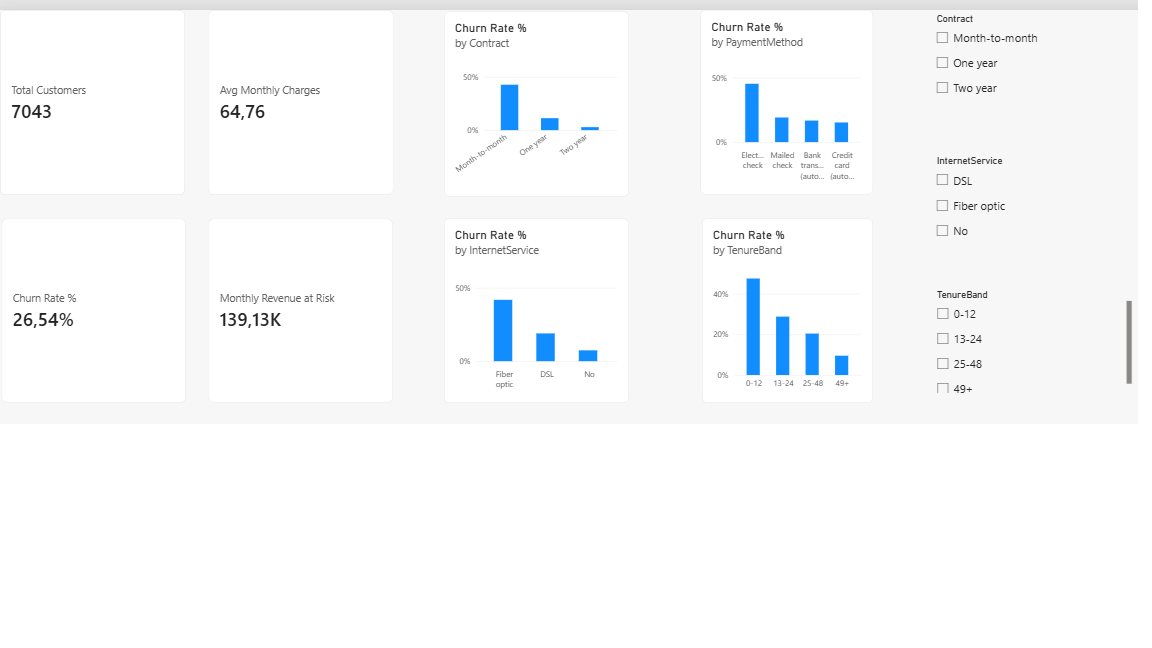
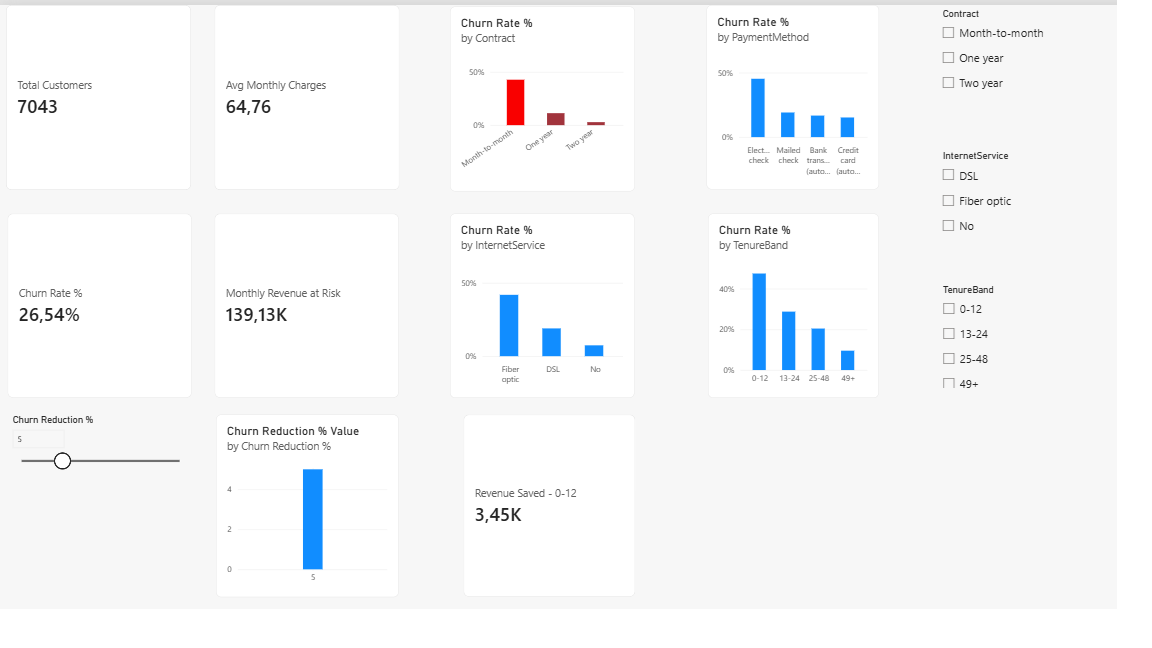
Update final dashboard deliverables

diff --git a/note.md b/note.md
@@ -15,11 +15,11 @@
 
 The following measures were created explicitly in DAX:
 
-- `Total Customers = COUNTROWS(Telco)`
-- `Churned Customers = CALCULATE([Total Customers], Telco[Churn] = "Yes")`
+- `Total Customers = COUNTROWS(...)`
+- `Churned Customers = CALCULATE([Total Customers], ...[Churn] = "Yes")`
 - `Churn Rate % = DIVIDE([Churned Customers], [Total Customers])`
-- `Avg Monthly Charges = AVERAGE(Telco[MonthlyCharges])`
-- `Monthly Revenue at Risk = CALCULATE(SUM(Telco[MonthlyCharges]), Telco[Churn] = "Yes")`
+- `Avg Monthly Charges = AVERAGE(...[MonthlyCharges])`
+- `Monthly Revenue at Risk = CALCULATE(SUM(...[MonthlyCharges]), ...[Churn] = "Yes")`
 
 `DIVIDE` is used instead of `/` so that a zero denominator returns a blank value instead of causing a division-by-zero error.
 
@@ -27,7 +27,7 @@ The `Churn Rate %` measure is calculated dynamically, so it changes correctly wh
 
 ## Dashboard
 
-The report page contains:
+The report contains:
 
 - Total Customers: 7,043
 - Churn Rate: 26.54%
@@ -48,6 +48,14 @@ Slicers were added for:
 - TenureBand
 
 Cross-filtering was tested by selecting a value in the Contract slicer and confirming that the other visuals changed accordingly.
+
+Additional bonus features were also implemented:
+
+- Report-page tooltip with Churn Rate, Total Customers, and Average Monthly Charges.
+- Matrix showing Churn Rate % by Contract and InternetService.
+- What-if parameter for Churn Reduction %.
+- A bonus card showing estimated Revenue Saved for the 0-12 month segment based on the selected churn reduction percentage.
+- Conditional formatting on the Contract churn-rate chart to highlight values above the overall churn rate.
 
 The report was created using Power BI Desktop on Windows.
 
@@ -71,6 +79,8 @@ A 100% churn rate in a group of only 3 customers should not automatically be tre
 
 Month-to-month contracts and fiber optic customers also show high churn rates and meaningful customer volumes, so they are considered important areas for further retention analysis.
 
+The matrix also shows that churn varies across combinations of Contract and InternetService. For example, month-to-month customers with fiber optic service have a 54.61% churn rate, while two-year customers with no internet service have a 0.78% churn rate.
+
 ## Retention Recommendations
 
 1. **Focus on early-stage customers:** Introduce an onboarding and early-retention program during the first 12 months, including regular check-ins, service guidance, and targeted offers before customers become more likely to churn.
@@ -85,4 +95,14 @@ Month-to-month contracts and fiber optic customers also show high churn rates an
 - DAX measures use `COUNTROWS`, `CALCULATE`, `AVERAGE`, `SUM`, and `DIVIDE`.
 - Churn rate is implemented as an explicit DAX measure rather than a calculated column.
 - The report uses Power BI Desktop on Windows.
-- The dashboard was designed as a single-page interactive report with KPI cards, churn-rate visuals, and slicers.
+- The main dashboard is supported by separate tooltip and bonus-analysis pages.
+- The report includes interactive slicers and cross-filtering between visuals.
+- The What-if parameter provides a simplified estimate of potential monthly revenue saved when a selected percentage of at-risk revenue is retained.
+
+## Deliverables
+
+- `churn_dashboard.pbix`
+- `churn_dashboard.png`
+- `churn_dashboard_month_to_month.png`
+- `churn_dashboard_matrix.png`
+- `note.md`
